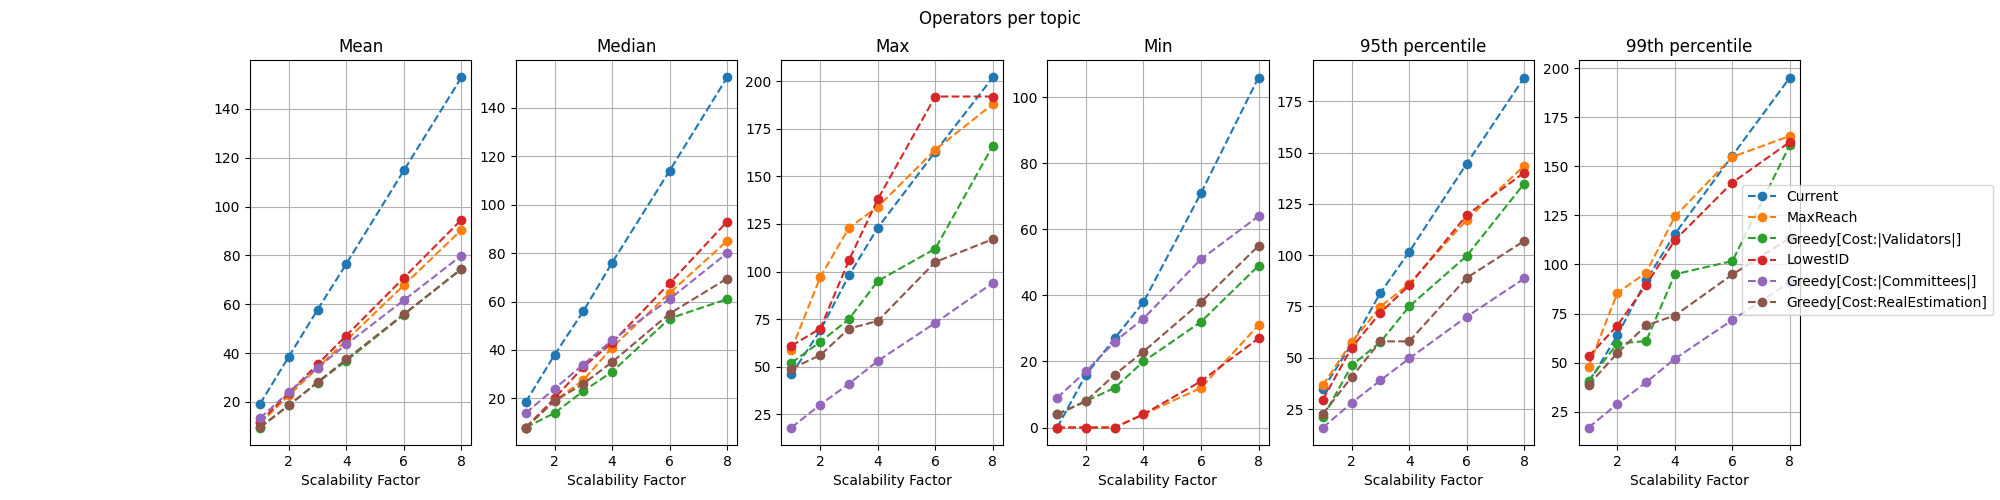
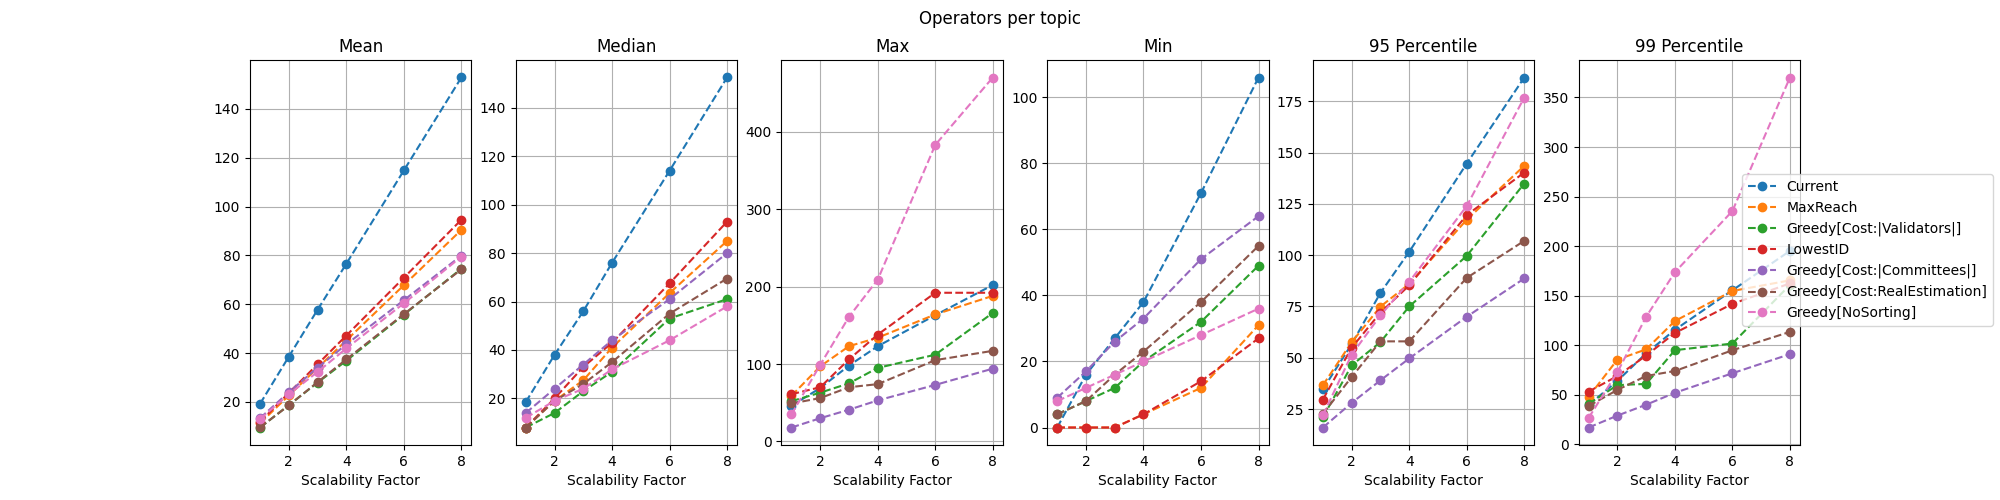
add degradation and instability analysis

diff --git a/sips/network_topology.md b/sips/network_topology.md
@@ -20,6 +20,8 @@
 - [Greedy: Further Analysis](#greedy-further-analysis)
 	- [Processing Time Profile](#processing-time-profile)
 	- [Variations](#variations)
+	- [Performance Degradation With Events](#performance-degradation-with-events)
+	- [Topic-Update Variant](#topic-update-variant)
 
 
 ## Summary
@@ -225,13 +227,14 @@ The greedy algorithm is composed of two steps:
 From the execution time profile, the insertion time completely dominates the sorting one.
 For example, for a network 8x bigger, the sorting time was 300 $\mu s$ and the insertion took ~42 ms.
 
-This is reasonable since $log(C) ~ 9$ against $T = 128$, and the insertion cost calculation is more costly than a comparison of committees.
+This is reasonable since $log(C) \approx 9$ against $T = 128$, and the insertion cost calculation is more costly than a comparison of committees.
 
 ### Variations
 
-We analysed two variations in terms of how cost is computed:
+We analysed three variations:
 - `Cost:|Committees|`: the cost function takes into account the number of committees, instead of the number of validators. For insertion, this variation doesn't need to track the validators of a committee requiring less data to be stored, though the number of validators is used in the sorting phase.
-- `Cost:RealEstimation`: instead of the numebr of validators, the cost function uses the estimated non-committee cost of all committees given their number of validators and operators, taking into account committee consensus as well as single validator duties.
+- `Cost:RealEstimation`: instead of the number of validators, the cost function uses the estimated non-committee cost of all committees given their number of validators and operators, taking into account committee consensus as well as single validator duties.
+- `Cost:NoSorting`: removes the sorting phase, jumping straight to the insertion phase.
 
 `Cost:|Validators|` shall denote the original version of the greedy algorithm.
 
@@ -243,3 +246,41 @@ We analysed two variations in terms of how cost is computed:
 
 - `Cost:RealEstimation` performs similarly to the original model, showing that the extra cost estimation step may be unnecessary.
 - `Cost:|Committees|` has a worse performance, close to `MaxReach`, probably due to the lack of information on the committees' sizes.
+- `Cost:NoSorting` has a slight worse performance until factor 6. The maximum topic size was considerably higher though. Since the sorting phase is cheap, it's worth maintaining it.
+
+### Performance Degradation With Events
+
+We evaluate the degradation of the greedy algorithm due to its history dependence.
+`Greedy` denotes the greedy algorithm executed considering the final system state as initial state, i.e. with no events.
+`G-YY` denotes the stable greedy algorithm executed considering the initial state as the one at the beginning of year `YY`, with the remaining state changes as events.
+Both on validator addition and removal, the stable greedy algorithm doesn't change the committee's topic assignment, unless the committee becomes empty (in the removal case).
+
+<p align="center">
+<img src="./images/network_topology/greedy_degradation/total_cryptography_cost.png"  width="80%" height="30%">
+<img src="./images/network_topology/greedy_degradation/total_message_rate.png"  width="80%" height="30%">
+<img src="./images/network_topology/greedy_degradation/operators_per_topic.png"  width="80%" height="30%">
+</p>
+
+- Defining an initial state closer to the current date produces a better result.
+- Specifically, 2025 provides the best improvement gap. Also, it's the only one showing a better result against `MaxReach`.
+
+### Topic-Update Variant
+
+We also consider an variation, denoted `GU`, that attempts to improve on the state's change at the cost of changing the committee's assignment.
+When a validator is added to a committee, the committee's is removed from its original topic and re-assigned to the best one.
+The processing of a validator removal is left unchanged.
+Note that the algorithm doesn't become *unstable* since it only changes the topic assignment of the event's committee.
+
+The following shows simulations for increasing network sizes.
+
+<p align="center">
+<img src="./images/network_topology/greedy_topic_update/total_cryptography_cost.png"  width="80%" height="30%">
+<img src="./images/network_topology/greedy_topic_update/total_message_rate.png"  width="80%" height="30%">
+<img src="./images/network_topology/greedy_topic_update/operators_per_topic.png"  width="80%" height="30%">
+</p>
+
+- `GU` provides a closer performance to `Greedy`, even with increasing network sizes.
+- In contrast to the higher maximum cryptography cost, `GU` provides a better performance for the minimum and average operators.
+- Regarding topics' sizes, `GU` creates bigger topics both for the maximum and minimum cases.
+
+
